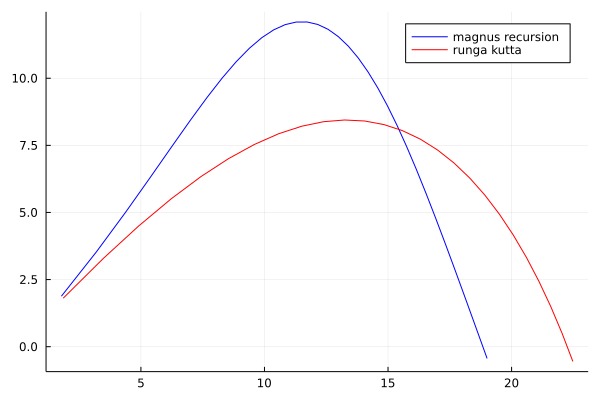
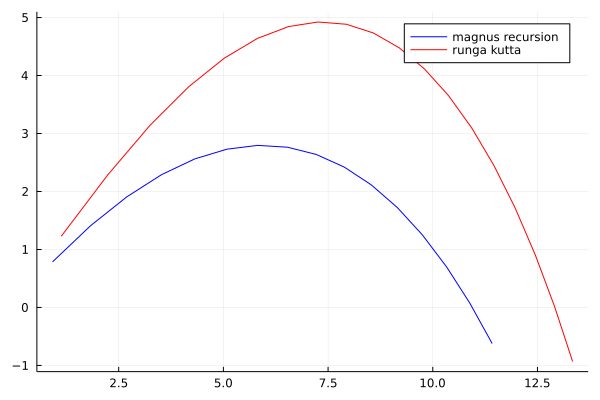
fixed rk, still mismatch

diff --git a/skynet-robot-libary/src/main/java/frc/robot/lib/Physics/lib/Ball.java b/skynet-robot-libary/src/main/java/frc/robot/lib/Physics/lib/Ball.java
@@ -521,44 +521,79 @@ public class Ball extends PhysicalObjectBase {
 
     }
 
-    public static void main(String[] args) {
-        Ball ball = new Ball(0.26932047, 0.12065, 0.47, 0.1);
-        ball.state.kinematics_varuibales.add(new Vector(0.0, 0.0, 0.0));
-        
+    public static void simulte_from_rpm_and_angle_runge_kutta(Ball projectile, double TopRPM, double BottomRPM,
+            double angle) {
+        double TopinDiameter = 4;
+        double TopmDiameter = Units.inchesToMeters(TopinDiameter);
+        double TopCircumference = (TopmDiameter) * Math.PI;
 
-        // Target hub = new Target(new Vector(4.0, 2.7178, 0.0), new Vector(1.22 - ball.get_target_threshold(), 0.05,
-        //         1.0), 90, 45, 999, -999);
+        double BottominDiameter = 4;
+        double BottommDiameter = Units.inchesToMeters(BottominDiameter);
+        double BottomCircumference = (BottommDiameter) * Math.PI;
+        double TopRPS = TopRPM / 60.0;
+        double BottomRPS = BottomRPM / 60.0;
+        double muzzle_velocity = (TopRPS * TopCircumference + BottomRPS * BottomCircumference) / 2.0;
+        double angle_rads = Math.toRadians(angle); // IN RADIANS
 
-        // // // ANGLE FROM Y AXIS ^
+        double TopRads = 0.104719755 * TopRPM;
+        double BottompRads = 0.104719755 * BottomRPM;
 
-        // Vector results = shooter_optimiztion.binary_smart_optimize(ball, hub, 45.0, 0.0, 5000.0, 1500.0, 12.0);
+        Vector started_velocity = new Vector(muzzle_velocity * Math.sin(angle_rads),
+                muzzle_velocity * Math.cos(angle_rads), 0.0); // m/s
+        Vector started_rotational_velocity = new Vector(0.0, 0.0,
+                (TopRads * TopmDiameter / 2 - BottompRads * BottommDiameter / 2)
+                        / (2 * projectile.get_radius())); // radians
 
-        // simulte_from_rpm_and_angle(ball, results.getComponent(0), results.getComponent(1), results.getComponent(2));
-        test_drag_recursion();
-        ball.set_started_velocity(new Vector(19.9366967045, 19.9366967045, 0.0));
-        ball.before_before_state = new State();
-        ball.set_rotational_velocity(new Vector(0.0, 0.0, -58.422600157894736842105263157895));
-        ball.lift_coeficent = ball.radius.multiply(ball.state.rotational_velocity.getMagnitude())
-                .divide(ball.state.velocity.getMagnitude()); // if cd is close to 0.5 then cl = R*rotational_velocity/v
-                                                             // which/ is S
-        ball.set_position(new Vector(0.0, 0.0000001, 0.0));
-        ball.state.save_to_list();
+        projectile.set_position(new Vector(0.0, 0.1, 0.0));
+        projectile.set_started_velocity(started_velocity);
+        projectile.set_rotational_velocity(started_rotational_velocity);
+
+        // ball.lift_coeficent =
+        // ball.radius.multiply(ball.state.rotational_velocity.getMagnitude())
+        // .divide(ball.state.velocity.getMagnitude()); // if cd is close to 0.5 then cl
+        // = R*rotational_velocity/v
+        // which/ is S
         ArrayList<ArrayList<Double>> pos_array = new ArrayList<ArrayList<Double>>();
         pos_array.add(0, new ArrayList<Double>());
         pos_array.add(1, new ArrayList<Double>());
-        while(ball.state.position.getComponent(1)>0)
-        {
-            State before_state = new State(ball.state);
-            ball.calc_magnus_forces();
-            ball.calc();
-            ball.runge_kutta_aproxemation(before_state);
-            pos_array.get(0).add(ball.state.position.getComponent(0));
-            pos_array.get(1).add(ball.state.position.getComponent(1));
-            ball.before_before_state = new State(before_state);
+
+        while (projectile.state.position.getComponent(1) > 0) {
+            State before_state = new State(projectile.state);
+            projectile.before_before_state = new State(before_state);
+            projectile.calc_magnus_forces();
+            projectile.calc();
+            projectile.runge_kutta_aproxemation(before_state);
+            pos_array.get(0).add(projectile.state.position.getComponent(0));
+            pos_array.get(1).add(projectile.state.position.getComponent(1));
+
         }
-        System.out.print("\n\n\nx_array_runga_kutta = ");
-        System.out.print(Arrays.deepToString(pos_array.get(0).toArray()));
-        System.out.print("\n\n\ny_array_runga_kutta  = ");
-        System.out.println(Arrays.deepToString(pos_array.get(1).toArray()));
+        if (true) {
+            System.out.print("\n\n\nx_array_runga_kutta = ");
+            System.out.print(Arrays.deepToString(pos_array.get(0).toArray()));
+            System.out.print("\n\n\ny_array_runga_kutta  = ");
+            System.out.println(Arrays.deepToString(pos_array.get(1).toArray()));
+        }
+
+    }
+
+    public static void main(String[] args) {
+        Ball ball = new Ball(0.26932047, 0.12065, 0.47, 0.1);
+        ball.state.kinematics_varuibales.add(new Vector(0.0, 0.0, 0.0));
+
+        // Target hub = new Target(new Vector(4.0, 2.7178, 0.0), new Vector(1.22 -
+        // ball.get_target_threshold(), 0.05,
+        // 1.0), 90, 45, 999, -999);
+
+        // // // ANGLE FROM Y AXIS ^
+
+        // Vector results = shooter_optimiztion.binary_smart_optimize(ball, hub, 45.0,
+        // 0.0, 5000.0, 1500.0, 12.0);
+
+        // simulte_from_rpm_and_angle(ball, results.getComponent(0),
+        // results.getComponent(1), results.getComponent(2));
+
+        simulte_from_rpm_and_angle(ball, 3000, 3000, 45);
+
+        simulte_from_rpm_and_angle_runge_kutta(ball, 3000, 3000, 45);
     }
 }

diff --git a/skynet-robot-libary/src/main/java/frc/robot/lib/Physics/lib/base/PhysicalObjectBase.java b/skynet-robot-libary/src/main/java/frc/robot/lib/Physics/lib/base/PhysicalObjectBase.java
@@ -49,52 +49,58 @@ public abstract class PhysicalObjectBase {
                 .add(mass.multiply(state.velocity.getMagnitude() * state.velocity.getMagnitude() * 0.5))
                 .add(moment_of_inertia.multiply(
                         state.rotational_velocity.getMagnitude() * state.rotational_velocity.getMagnitude() * 0.5));
+
         state.angular_momentum = state.rotational_velocity.multiply(moment_of_inertia);
     }
-    protected List<Vector> deferantial_equation(Scalar time, State before_state)
-    {
+
+    protected List<Vector> deferantial_equation(Scalar time, State before_state) {
         // return state.velocity.add(state.acceleration.multiply(time));
-        List<Vector> output =  new ArrayList<Vector>();
+        List<Vector> output = new ArrayList<Vector>();
         output.add(before_state.velocity);
         output.add(before_state.acceleration);
-        output.add(before_state.acceleration.subtract(before_before_state.acceleration).divide(time));
+        output.add(before_state.acceleration.subtract((before_before_state.acceleration).multiply(time)));
         return output;
     }
-    private List<Vector> multiplie_list(List<Vector> vector_list, double number)
-    {
+
+    private List<Vector> multiplie_list(List<Vector> vector_list, double number) {
         List<Vector> return_list = new ArrayList<>(vector_list);
-        for (int i =0; i< vector_list.size();i++)
-        {
-            return_list.set(i,vector_list.get(i).multiply(number));
+        for (int i = 0; i < vector_list.size(); i++) {
+            return_list.set(i, vector_list.get(i).multiply(number));
         }
         return return_list;
     }
-    private List<Vector> add_list(List<Vector> v1, List<Vector> v2)
-    {
+
+    private List<Vector> add_list(List<Vector> v1, List<Vector> v2) {
         List<Vector> return_list = new ArrayList<>(v1);
-        for (int i =0; i< v1.size();i++)
-        {
-            return_list.set(i,v1.get(i).add(v2.get(i)));
+        for (int i = 0; i < v1.size(); i++) {
+            return_list.set(i, v1.get(i).add(v2.get(i)));
         }
         return return_list;
     }
-    protected void runge_kutta_aproxemation(State before_state)
-    {
-        List<Vector> state =  new ArrayList<Vector>();
+
+    protected void runge_kutta_aproxemation(State before_state) {
+        List<Vector> state = new ArrayList<Vector>();
         state.add(before_state.position);
         state.add(before_state.velocity);
         state.add(before_state.acceleration);
-        List<Vector> a = deferantial_equation(()->0.0,before_state);
-        List<Vector> b = deferantial_equation(estemation_resulotion.multiply(0.5), before_state.add_vector(multiplie_list(a,estemation_resulotion.multiply(0.5).getMagnitude())));
-        List<Vector> c = deferantial_equation(estemation_resulotion.multiply(0.5), before_state.add_vector(multiplie_list(b,estemation_resulotion.multiply(0.5).getMagnitude())));
-        List<Vector> d = deferantial_equation(estemation_resulotion, before_state.add_vector(multiplie_list(c,estemation_resulotion.getMagnitude())));
-        // Vector position = before_state.position.add(a.add(b.multiply(2)).add(c.multiply(2)).add(d).multiply(estemation_resulotion.multiply((double)1/6)));
-        List<Vector> sum = multiplie_list(add_list(a, add_list(b, add_list(b, add_list(c, add_list(c, d))))), estemation_resulotion.multiply((double)1/6).getMagnitude());
-        System.out.println(Arrays.deepToString(sum.toArray()));
-        this.state.position = sum.get(0);
-        this.state.velocity = sum.get(1);
-        this.state.acceleration = sum.get(2);
+        List<Vector> a = deferantial_equation(() -> 0.0, before_state);
+        List<Vector> b = deferantial_equation(estemation_resulotion.multiply(0.5),
+                before_state.add_vector(multiplie_list(a, estemation_resulotion.multiply(0.5).getMagnitude())));
+        List<Vector> c = deferantial_equation(estemation_resulotion.multiply(0.5),
+                before_state.add_vector(multiplie_list(b, estemation_resulotion.multiply(0.5).getMagnitude())));
+        List<Vector> d = deferantial_equation(estemation_resulotion,
+                before_state.add_vector(multiplie_list(c, estemation_resulotion.getMagnitude())));
+
+        List<Vector> sum = multiplie_list(add_list(a, add_list(b, add_list(b, add_list(c, add_list(c, d))))),
+                estemation_resulotion.multiply((double) 1 / 6).getMagnitude());
+
+        // System.out.println(sum);
+
+        this.state.position = this.state.position.add(sum.get(0));
+        this.state.velocity = this.state.velocity.add(sum.get(1));
+        this.state.acceleration = this.state.acceleration.add(sum.get(2));
     }
+
     protected void recursive_update(State before_state, int turn, int iteration) {
         // System.out.println("Turn: " + turn);
         if (turn > state.kinematics_varuibales.size()) {
@@ -133,7 +139,8 @@ public abstract class PhysicalObjectBase {
         }
         recursive_update(before_state, turn + 1, iteration);
     }
-// ded
+
+    // ded
     protected void recursive_update1(State before_state, int turn, int iteration) {
         System.out.println("Turn: " + turn);
         if (turn > state.kinematics_varuibales.size()) {
